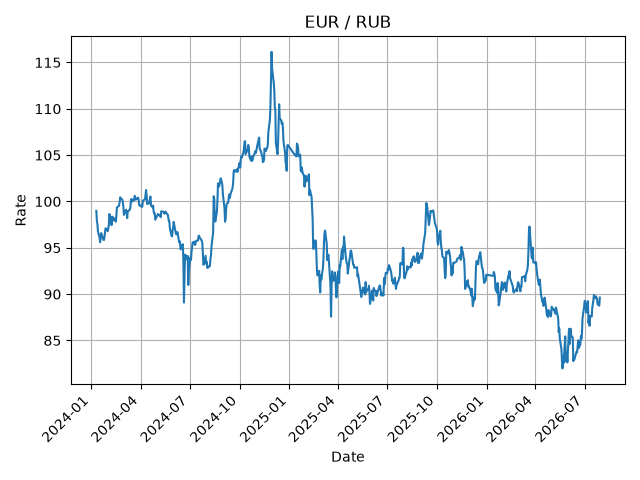
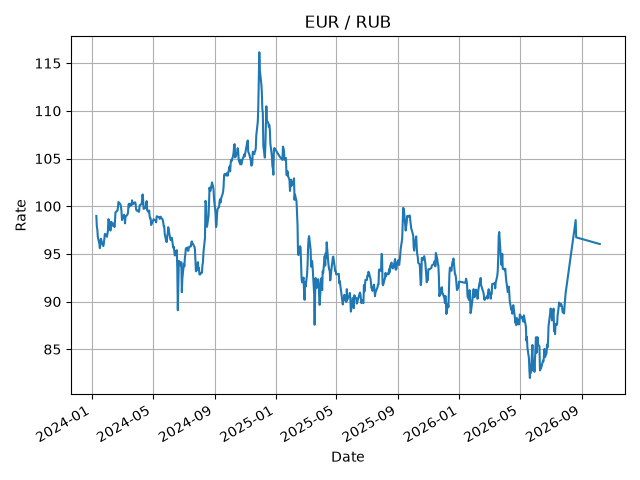
fix/postgres-to-clickhouse-serve

diff --git a/serve/plot_rates.py b/serve/plot_rates.py
@@ -1,32 +1,26 @@
 import matplotlib
 
-matplotlib.use("Agg")  
+matplotlib.use("Agg")
 import os
-from urllib.parse import urlparse
 
+import clickhouse_connect
 import matplotlib.pyplot as plt
-import psycopg2
 
-conn_uri = os.environ["AIRFLOW_CONN_VALUTE_POSTGRES"]
-parsed = urlparse(conn_uri)
-
-conn = psycopg2.connect(
-    host=os.environ.get("VALUTE_DB_HOST", "localhost"),
-    dbname=parsed.path.lstrip("/"),
-    user=parsed.username,
-    password=parsed.password,
-    port=parsed.port or 5432
+client = clickhouse_connect.get_client(
+    host=os.environ.get("VALUTE_CH_HOST", "localhost"),
+    port=int(os.environ.get("VALUTE_CH_PORT", 8123)),
+    username=os.environ.get("VALUTE_CH_USER", "admin"),
+    password=os.environ.get("VALUTE_CH_PASSWORD", "admin"),
+    database="valute",
 )
-cur = conn.cursor()
-with open("serve/trend.sql") as f:
-    char_code = os.environ.get("CURRENCY", "USD")
-    cur.execute(f.read(), (char_code,))
 
-rows = cur.fetchall()
+char_code = os.environ.get("CURRENCY", "USD")
+with open("serve/trend.sql") as f:
+    rows = client.query(f.read(), parameters={"char_code": char_code}).result_rows
+
 dates = [r[0] for r in rows]
 values = [r[1] for r in rows]
-cur.close()
-conn.close()
+client.close()
 
 plt.plot(dates, values)
 plt.title(f"{char_code} / RUB")
